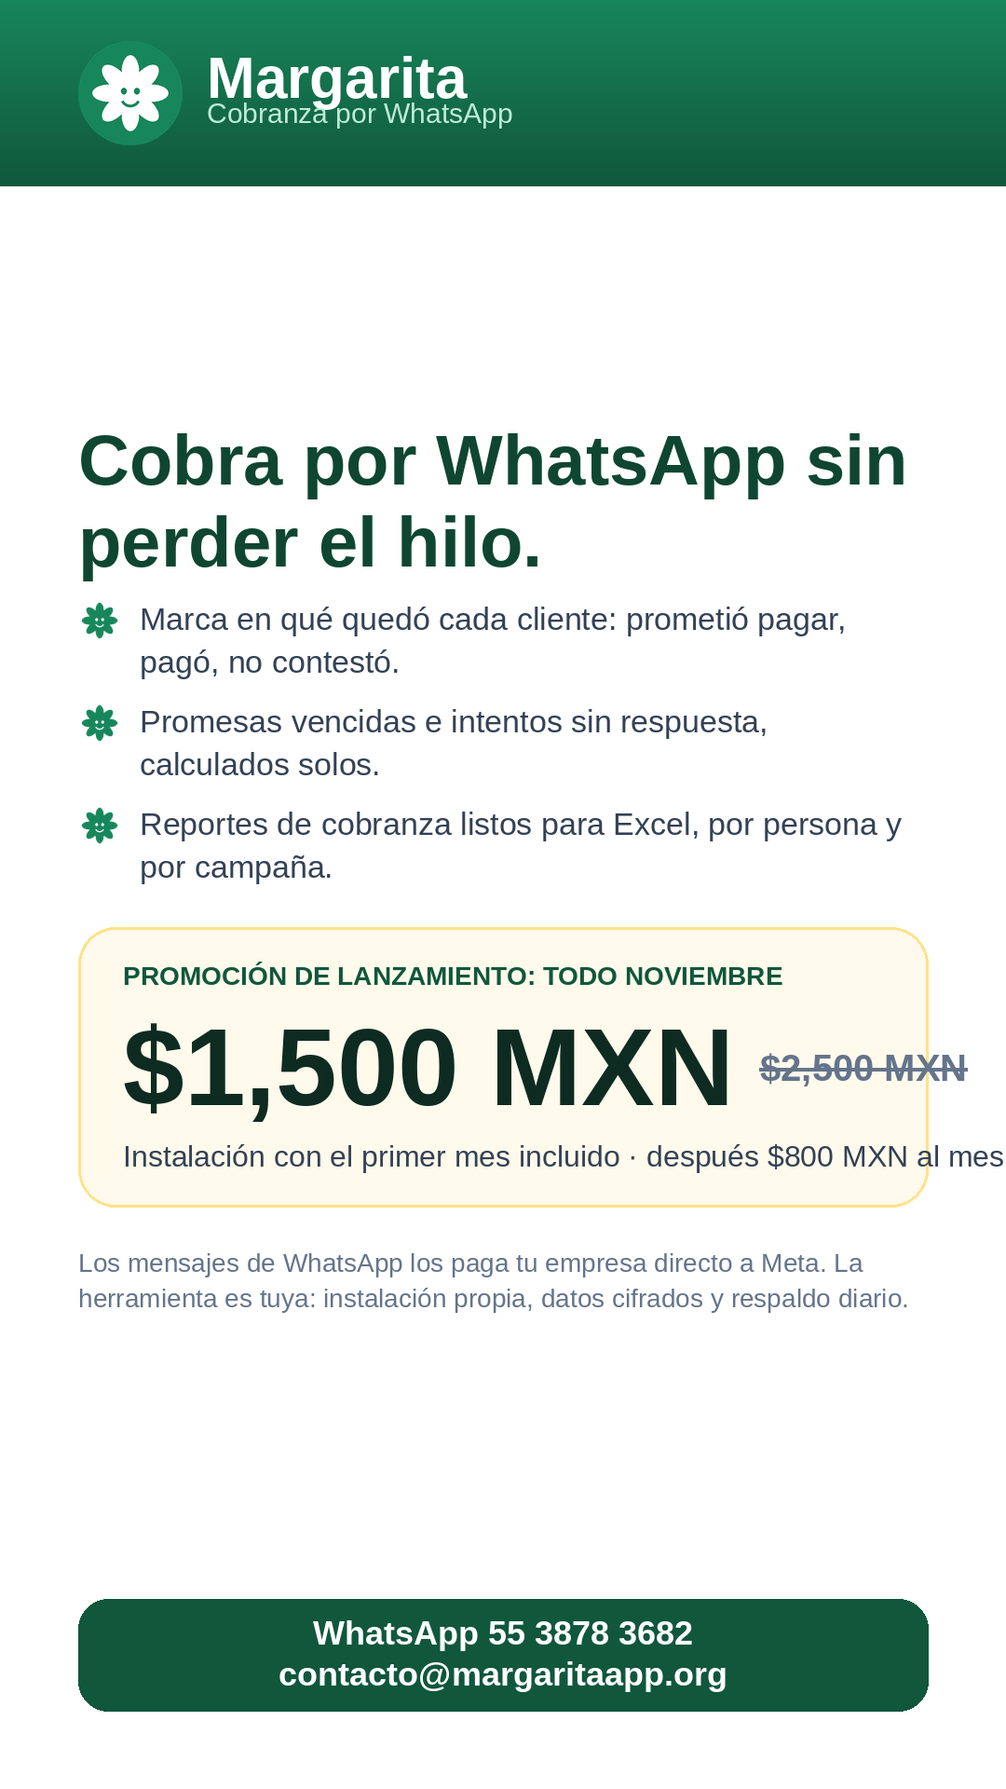
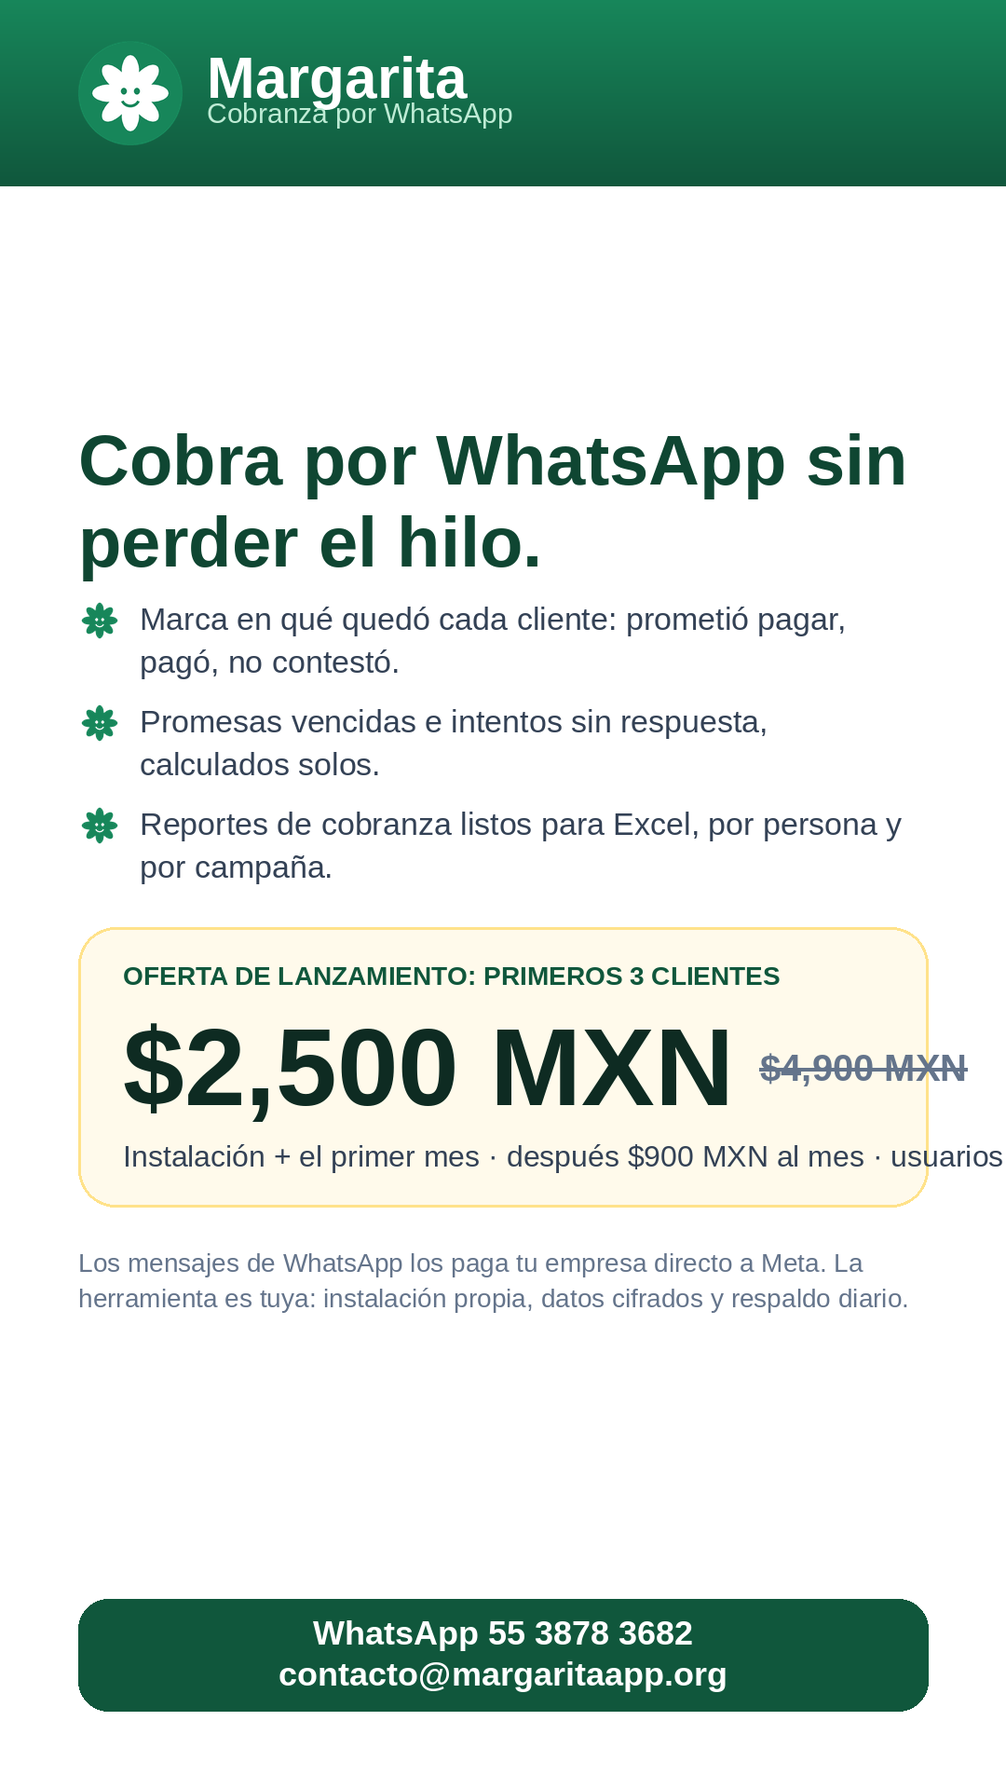
add new fixes

Changed region(s): [[0.1222, 0.5312, 0.7639, 0.625], [0.275, 0.625, 0.9778, 0.6562]]

diff --git a/landing/index.html b/landing/index.html
@@ -93,20 +93,21 @@
 
                         <div>
                             <p class="text-sm font-black text-margarita-900">
-                                Instalación $1,500.00 MXN
+                                Instalación $2,500.00 MXN
                                 
                                     <span class="font-semibold text-slate-500">
-                                        <span class="line-through">$2,500.00 MXN</span>
+                                        <span class="line-through">$4,900.00 MXN</span>
                                     </span>
                                 
                             </p>
 
                             <p class="mt-1 text-xs leading-5 text-slate-600">
-                                Promoción de lanzamiento: todo noviembre. 
-                                La instalación <strong>incluye el primer mes</strong>;
+                                Oferta de lanzamiento: primeros 3 clientes. 
+                                Al contratar se paga la instalación y el primer mes;
                                 después son
-                                <strong>$800.00 MXN</strong> al mes, sin
+                                <strong>$900.00 MXN</strong> al mes, sin
                                 contrato forzoso y con los usuarios que necesites.
+                                Más IVA.
                                 <a href="#precios" class="font-semibold text-margarita-700 underline">
                                     Ver qué incluye
                                 </a>
@@ -327,14 +328,14 @@
                 </p>
 
                 <h2 class="mt-2 text-3xl font-black text-slate-950">
-                    Se paga la instalación. Después, mes con mes.
+                    Una instalación y después, mes con mes.
                 </h2>
 
                 <p class="mt-3 max-w-3xl text-slate-600">
                     Sin contrato forzoso y sin cobro por usuario: se paga la
-                    instalación, que <strong>incluye el primer mes</strong>, y de ahí
-                    en adelante la mensualidad, mes con mes. El consumo de WhatsApp
-                    lo pagas tú directo a Meta.
+                    instalación junto con el primer mes y, de ahí en adelante, la
+                    mensualidad. <strong>Todos los precios son más IVA</strong>, y el
+                    consumo de WhatsApp lo pagas tú directo a Meta.
                 </p>
             </div>
 
@@ -342,36 +343,40 @@
                 <div class="relative rounded-2xl bg-white p-6 shadow-sm ring-2 ring-margarita-600 lg:col-span-2">
                     
                         <span class="absolute -top-3 left-6 rounded-full bg-sol-400 px-3 py-1 text-xs font-black text-margarita-950">
-                            Promoción de lanzamiento: todo noviembre
+                            Oferta de lanzamiento: primeros 3 clientes
                         </span>
                     
 
                     <div class="flex flex-wrap items-end gap-x-4 gap-y-1">
                         <p class="text-4xl font-black text-slate-950">
-                            $1,500.00 MXN
+                            $2,500.00 MXN
                         </p>
 
                         <p class="pb-1 text-sm font-semibold text-slate-500">
                             
-                                <span class="line-through">$2,500.00 MXN</span>
+                                <span class="line-through">$4,900.00 MXN</span>
                             
-                            · una vez
+                            · una vez · más IVA
                         </p>
                     </div>
 
                     <p class="mt-2 text-sm font-semibold text-margarita-800">
-                        Instalación completa + el primer mes · después
-                        $800.00 MXN al mes
+                        Instalación (una vez) + el primer mes ·
+                        $900.00 MXN al mes de ahí en adelante
                     </p>
 
                     <ul class="mt-5 grid gap-2 text-sm text-slate-700 sm:grid-cols-2">
                         <li class="rounded-xl bg-slate-50 px-4 py-3">
-                            Tu propia instalación: proyecto, base de datos, dominio y
+                            Tu instalación completa: proyecto, base de datos, dominio y
                             usuario administrador. Los datos son tuyos.
                         </li>
                         <li class="rounded-xl bg-slate-50 px-4 py-3">
-                            Puesta en marcha contigo: alta del administrador, carga de tu
-                            cartera desde Excel y una sesión de capacitación.
+                            La conexión de tu cuenta de WhatsApp Business, el alta del
+                            primer número y la carga de tus plantillas iniciales.
+                        </li>
+                        <li class="rounded-xl bg-slate-50 px-4 py-3">
+                            <strong>Guía de uso</strong> para tu equipo y una
+                            <strong>sesión de arranque de 2 horas</strong> contigo.
                         </li>
                         <li class="rounded-xl bg-slate-50 px-4 py-3">
                             <strong>Usuarios ilimitados</strong>: no cobramos por agente
@@ -382,9 +387,9 @@
                             verificación en dos pasos disponible.
                         </li>
                         <li class="rounded-xl bg-slate-50 px-4 py-3">
-                            <strong>Primer mes incluido</strong> en la instalación.
-                            Después, mes con mes: si un mes decides no seguir, se
-                            acaba ahí.
+                            <strong>El primer mes va con la instalación</strong>. De ahí
+                            en adelante, mes con mes: si un mes decides no seguir, se
+                            acaba ahí y te llevas tu respaldo.
                         </li>
                         <li class="rounded-xl bg-slate-50 px-4 py-3">
                             Actualizaciones, correcciones y soporte por WhatsApp y
@@ -409,28 +414,32 @@
 
                 <div class="flex flex-col rounded-2xl bg-slate-950 p-6 text-white">
                     <p class="text-xs font-black uppercase tracking-wide text-sol-300">
-                        Opcional
+                        Cada mes
                     </p>
 
-                    <p class="mt-3 text-2xl font-black">
-                        Acompañamiento en Meta
-                        <span class="block text-3xl">+$1,500.00 MXN</span>
+                    <p class="mt-3 text-3xl font-black">
+                        $900.00 MXN
+                        <span class="block text-sm font-semibold text-slate-300">
+                            al mes · más IVA
+                        </span>
                     </p>
 
-                    <p class="mt-3 rounded-xl bg-white/10 px-4 py-3 text-sm font-semibold text-sol-200">
-                        Instalación + Meta: <span class="whitespace-nowrap">$2,500.00 MXN</span>
-                    </p>
+                    
+                        <p class="mt-3 rounded-xl bg-white/10 px-4 py-3 text-sm font-semibold text-sol-200">
+                            Precio de lista: <span class="whitespace-nowrap">$1,490.00 MXN</span> al mes
+                        </p>
+                    
 
-                    <p class="mt-3 text-sm leading-6 text-slate-300">
-                        Si prefieres no pelear con la configuración, lo hacemos
-                        nosotros: alta en Meta Business, cuenta de WhatsApp Business,
-                        número dedicado, token permanente, webhook firmado, primera
-                        plantilla y prueba de punta a punta.
-                    </p>
+                    <ul class="mt-4 space-y-2 text-sm leading-6 text-slate-300">
+                        <li><strong class="text-white">Usuarios ilimitados</strong> y todos los números de tu cuenta.</li>
+                        <li>Actualizaciones, correcciones y funciones nuevas.</li>
+                        <li>Soporte por WhatsApp y correo en horario hábil.</li>
+                        <li>Respaldos diarios, datos cifrados y monitoreo.</li>
+                    </ul>
 
                     <p class="mt-4 text-xs leading-5 text-slate-400">
-                        Pago único. Aunque no lo contrates, te dejamos la guía
-                        completa para hacerlo por tu cuenta.
+                        Sin plazos forzosos. Si un mes no continúas, te llevas tu
+                        respaldo completo y se borra todo a petición.
                     </p>
 
                     <a href="https://wa.me/525538783682" class="mt-auto inline-flex w-fit rounded-xl bg-sol-400 px-5 py-3 text-sm font-black text-margarita-950 hover:bg-sol-300">
@@ -467,13 +476,15 @@
 
                 <div class="rounded-2xl bg-slate-50 px-5 py-4 ring-1 ring-slate-200">
                     <p class="text-sm font-black text-slate-950">
-                        Mes con mes, tú decides
+                        Tu cuenta de Meta va de tu lado
                     </p>
 
                     <p class="mt-1 text-sm leading-6 text-slate-600">
-                        Son <strong>$800.00 MXN</strong> al mes, sin
-                        plazos forzosos. Si un mes dejas de pagar, se acabó: te
-                        llevas tu respaldo completo y se borra todo a petición.
+                        La instalación supone que ya tienes tu cuenta de WhatsApp
+                        Business configurada (verificación del negocio, número y método
+                        de pago). Si prefieres que la configuremos nosotros, se
+                        <strong>cotiza aparte</strong>; la guía para hacerlo tú está
+                        publicada.
                     </p>
                 </div>
             </div>

diff --git a/src/config/app.config.ts b/src/config/app.config.ts
@@ -206,28 +206,34 @@ export const appConfig = {
         process.env.SUPPORT_WHATSAPP_DISPLAY?.trim() || "55 3878 3682",
     setupServicePrice:
         process.env.SETUP_SERVICE_PRICE?.trim() ||
-        "$1,500.00 MXN",
+        "se cotiza aparte",
 
     /**
      * La oferta comercial, tal como aparece en la página pública. Se escribe
      * ya formateada ("$1,500.00 MXN") porque es un texto que lee el cliente:
      * el formato es decisión comercial, no del navegador.
      *
-     * El modelo es **mes con mes**: la instalación (que incluye el primer mes)
-     * y, del segundo mes en adelante, la mensualidad. En noviembre la
-     * instalación va en promoción.
+     * El modelo es **mes con mes**: la instalación (que se paga junto con el
+     * primer mes) y, de ahí en adelante, la mensualidad. Hay una oferta de
+     * lanzamiento para los primeros clientes, con precio de lista y de oferta,
+     * y una fecha de vigencia: al pasar esa fecha la página deja de anunciarla
+     * sola, sin tocar código.
+     *
+     * Los precios van **más IVA**, como el resto de la propuesta.
      */
-    installPrice: process.env.INSTALL_PRICE?.trim() || "$2,500.00 MXN",
+    installPrice: process.env.INSTALL_PRICE?.trim() || "$4,900.00 MXN",
     installPricePromo:
-        process.env.INSTALL_PRICE_PROMO?.trim() || "$1,500.00 MXN",
+        process.env.INSTALL_PRICE_PROMO?.trim() || "$2,500.00 MXN",
     installPromoLabel:
         process.env.INSTALL_PROMO_LABEL?.trim() ||
-        "Promoción de lanzamiento: todo noviembre",
+        "Oferta de lanzamiento: primeros 3 clientes",
+    /** Hasta cuándo vale la oferta. Pasada la fecha, se deja de anunciar. */
+    installPromoUntil:
+        process.env.INSTALL_PROMO_UNTIL?.trim() || "2026-12-31",
     installMonthlyPrice:
-        process.env.INSTALL_MONTHLY_PRICE?.trim() || "$800.00 MXN",
-    /** Lo que cuestan la instalación y la conexión con Meta si van juntas. */
-    setupBundlePrice:
-        process.env.SETUP_BUNDLE_PRICE?.trim() || "$2,500.00 MXN",
+        process.env.INSTALL_MONTHLY_PRICE?.trim() || "$900.00 MXN",
+    installMonthlyListPrice:
+        process.env.INSTALL_MONTHLY_LIST_PRICE?.trim() || "$1,490.00 MXN",
 
 
     logRetentionDays: Number(process.env.LOG_RETENTION_DAYS) || 90,

diff --git a/landing/como-empezar.html b/landing/como-empezar.html
@@ -76,7 +76,7 @@
                         Nosotros configuramos la app de Meta, la cuenta de WhatsApp
                         Business, el número dedicado, el token permanente, el webhook
                         firmado, las plantillas y una prueba de punta a punta.
-                        <strong class="text-white">Precio: $1,500.00 MXN.</strong>
+                        <strong class="text-white">Precio: se cotiza aparte.</strong>
                     </p>
 
                     <a href="https://wa.me/525538783682" class="mt-4 inline-flex rounded-xl bg-margarita-500 px-6 py-3 text-sm font-black text-white hover:bg-margarita-400">
@@ -413,7 +413,7 @@
                             Incluye el alta en Meta, el número dedicado, el token
                             permanente, el webhook firmado, la primera plantilla y la
                             prueba de punta a punta.
-                            <strong class="text-white">Precio: $1,500.00 MXN.</strong>
+                            <strong class="text-white">Precio: se cotiza aparte.</strong>
                         </p>
                     </div>
 

diff --git a/scripts/build-landing.ts b/scripts/build-landing.ts
@@ -63,11 +63,12 @@ function locals(title: string) {
         supportEmail: appConfig.supportEmail,
         supportWhatsappDisplay: appConfig.supportWhatsappDisplay,
         setupServicePrice: appConfig.setupServicePrice,
-        setupBundlePrice: appConfig.setupBundlePrice,
         installPrice: appConfig.installPrice,
         installPricePromo: appConfig.installPricePromo,
         installPromoLabel: appConfig.installPromoLabel,
-        installMonthlyPrice: appConfig.installMonthlyPrice
+        installPromoUntil: appConfig.installPromoUntil,
+        installMonthlyPrice: appConfig.installMonthlyPrice,
+        installMonthlyListPrice: appConfig.installMonthlyListPrice
     };
 }
 

diff --git a/src/controllers/home.controller.ts b/src/controllers/home.controller.ts
@@ -16,11 +16,12 @@ function supportContext() {
         supportEmail: appConfig.supportEmail,
         supportWhatsappDisplay: appConfig.supportWhatsappDisplay,
         setupServicePrice: appConfig.setupServicePrice,
-        setupBundlePrice: appConfig.setupBundlePrice,
         installPrice: appConfig.installPrice,
         installPricePromo: appConfig.installPricePromo,
         installPromoLabel: appConfig.installPromoLabel,
+        installPromoUntil: appConfig.installPromoUntil,
         installMonthlyPrice: appConfig.installMonthlyPrice,
+        installMonthlyListPrice: appConfig.installMonthlyListPrice,
         appName: appConfig.name
     };
 }

diff --git a/src/controllers/admin-system.controller.ts b/src/controllers/admin-system.controller.ts
@@ -25,7 +25,7 @@ export class AdminSystemController {
                 installList: appConfig.installPrice,
                 monthly: appConfig.installMonthlyPrice,
                 meta: appConfig.setupServicePrice,
-                bundle: appConfig.setupBundlePrice,
+                monthlyList: appConfig.installMonthlyListPrice,
                 promoLabel: appConfig.installPromoLabel,
                 email: appConfig.supportEmail,
                 whatsapp: appConfig.supportWhatsappDisplay

diff --git a/scripts/generate-promo.py b/scripts/generate-promo.py
@@ -12,7 +12,7 @@ Produce (en `marketing/`):
 El precio sale de los mismos valores por omisión que la página pública
 (instalación con el primer mes incluido y mensualidad mes con mes), así que la
 imagen y la página no se pueden contradecir. Cuando la promoción termine, se
-vuelve a correr con `--price="$2,500 MXN"`.
+vuelve a correr con `--price="$4,900 MXN"`.
 
 El contacto se toma de los argumentos o de `SUPPORT_WHATSAPP` y
 `SUPPORT_EMAIL`; el correo por omisión es el del producto
@@ -298,11 +298,11 @@ def render(width, height, content):
 
 def main():
     parser = argparse.ArgumentParser(description="Imagen de promoción de Margarita")
-    parser.add_argument("--price", default="$1,500 MXN")
-    parser.add_argument("--price-before", default="$2,500 MXN")
-    parser.add_argument("--monthly", default="$800 MXN")
+    parser.add_argument("--price", default="$2,500 MXN")
+    parser.add_argument("--price-before", default="$4,900 MXN")
+    parser.add_argument("--monthly", default="$900 MXN")
     parser.add_argument(
-        "--promo-label", default="Promoción de lanzamiento: todo noviembre"
+        "--promo-label", default="Oferta de lanzamiento: primeros 3 clientes"
     )
     parser.add_argument(
         "--whatsapp",
@@ -334,8 +334,8 @@ def main():
         "price": args.price,
         "price_before": args.price_before,
         "detail": (
-            f"Instalación con el primer mes incluido · después {args.monthly} "
-            "al mes · usuarios ilimitados"
+            f"Instalación + el primer mes · después {args.monthly} al mes · "
+            "usuarios ilimitados · más IVA"
         ),
         "meta_note": (
             "Los mensajes de WhatsApp los paga tu empresa directo a Meta. "

diff --git a/README.md b/README.md
@@ -278,12 +278,13 @@ Copia `.env.example` a `.env`. Ninguna de estas variables debe subirse al reposi
 | `SESSION_MAX_ACTIVE` | No | Dispositivos con sesión abierta por usuario. Default `3` |
 | `SUPPORT_WHATSAPP` | Comercial | Número de contacto (dígitos con lada país) que aparece en la página pública |
 | `SUPPORT_EMAIL` | Comercial | Correo de contacto alterno |
-| `SETUP_SERVICE_PRICE` | Comercial | Precio del servicio de conexión con Meta que se muestra en la página pública |
-| `INSTALL_PRICE` | Comercial | Precio de lista de la instalación, con el primer mes incluido (`$2,500.00 MXN`) |
-| `INSTALL_PRICE_PROMO` | Comercial | Precio de la promoción de lanzamiento (`$1,500.00 MXN`) |
-| `INSTALL_PROMO_LABEL` | Comercial | Texto de la promoción (`Promoción de lanzamiento: todo noviembre`) |
-| `INSTALL_MONTHLY_PRICE` | Comercial | Mensualidad, del segundo mes en adelante (`$800.00 MXN`) |
-| `SETUP_BUNDLE_PRICE` | Comercial | Instalación + conexión con Meta si se contratan juntas (`$2,500.00 MXN`) |
+| `SETUP_SERVICE_PRICE` | Comercial | Precio del acompañamiento con Meta (`se cotiza aparte` por omisión) |
+| `INSTALL_PRICE` | Comercial | Precio de lista de la instalación (`$4,900.00 MXN`) |
+| `INSTALL_PRICE_PROMO` | Comercial | Precio de la oferta de lanzamiento (`$2,500.00 MXN`) |
+| `INSTALL_PROMO_LABEL` | Comercial | Texto de la oferta (`Oferta de lanzamiento: primeros 3 clientes`) |
+| `INSTALL_MONTHLY_PRICE` | Comercial | Mensualidad (`$900.00 MXN`) |
+| `INSTALL_MONTHLY_LIST_PRICE` | Comercial | Mensualidad a precio de lista (`$1,490.00 MXN`) |
+| `INSTALL_PROMO_UNTIL` | Comercial | Hasta cuándo vale la oferta (`2026-12-31`); después, la página deja de anunciarla sola |
 | `SUPPORT_WHATSAPP_DISPLAY` | Comercial | El número como se muestra en la página (`55 3878 3682`) |
 | `BACKUP_ENABLED` | No | Respaldo automático de la base. Default `true` |
 | `BACKUP_INTERVAL_HOURS` | No | Cada cuánto se guarda una copia completa. Default `24` |

diff --git a/docs/deploy-railway.md b/docs/deploy-railway.md
@@ -96,12 +96,13 @@ Genera los cuatro de una vez y explica para qué sirve cada uno. Copia esos valo
 | `SESSION_MAX_ACTIVE` | `3` | Dispositivos con sesión abierta por usuario |
 | `SUPPORT_WHATSAPP` | — | Número comercial que aparece en la página pública (`https://wa.me/…`) |
 | `SUPPORT_EMAIL` | — | Correo comercial de contacto |
-| `SETUP_SERVICE_PRICE` | `$1,500.00 MXN` | Precio del servicio de conexión con Meta que se muestra en la página pública |
-| `INSTALL_PRICE` | `$2,500.00 MXN` | Precio de lista de la instalación (incluye el primer mes) |
-| `INSTALL_PRICE_PROMO` | `$1,500.00 MXN` | Precio de la promoción de lanzamiento (incluye el primer mes) |
-| `INSTALL_PROMO_LABEL` | `Promoción de lanzamiento: todo noviembre` | Texto que acompaña la promoción |
-| `INSTALL_MONTHLY_PRICE` | `$800.00 MXN` | Mensualidad, del segundo mes en adelante |
-| `SETUP_BUNDLE_PRICE` | `$2,500.00 MXN` | Instalación + conexión con Meta, si se contratan juntas |
+| `SETUP_SERVICE_PRICE` | `se cotiza aparte` | Precio del acompañamiento con Meta en la página pública |
+| `INSTALL_PRICE` | `$4,900.00 MXN` | Precio de lista de la instalación |
+| `INSTALL_PRICE_PROMO` | `$2,500.00 MXN` | Precio de la oferta de lanzamiento |
+| `INSTALL_PROMO_LABEL` | `Oferta de lanzamiento: primeros 3 clientes` | Texto que acompaña la oferta |
+| `INSTALL_MONTHLY_PRICE` | `$900.00 MXN` | Mensualidad |
+| `INSTALL_MONTHLY_LIST_PRICE` | `$1,490.00 MXN` | Mensualidad a precio de lista |
+| `INSTALL_PROMO_UNTIL` | `2026-12-31` | Fecha en que la página deja de anunciar la oferta |
 | `SUPPORT_WHATSAPP_DISPLAY` | `55 3878 3682` | El WhatsApp como se muestra en la página |
 | `BACKUP_ENABLED` | `true` | Respaldo automático de la base encendido o apagado |
 | `BACKUP_INTERVAL_HOURS` | `24` | Cada cuánto se guarda una copia completa |

diff --git a/docs/plantilla-railway.md b/docs/plantilla-railway.md
@@ -43,11 +43,12 @@ No hay que configurar nada en el panel de Railway para el build ni el arranque: 
 | `TIMEZONE` | `America/Mexico_City` | Para fechas, topes diarios y reportes. |
 | `SUPPORT_WHATSAPP` | tu número con lada | Aparece en la página pública del cliente. |
 | `SUPPORT_EMAIL` | tu correo | Contacto comercial. |
-| `SETUP_SERVICE_PRICE` | `$1,500.00 MXN` | Lo que cobras por la conexión con Meta. |
-| `INSTALL_PRICE` / `INSTALL_PRICE_PROMO` | `$2,500.00 MXN` / `$1,500.00 MXN` | Precio de lista y de promoción de la instalación (incluye el primer mes). |
-| `INSTALL_PROMO_LABEL` | `Promoción de lanzamiento: todo noviembre` | Texto de la promoción, para poder apagarla sin tocar código. |
-| `INSTALL_MONTHLY_PRICE` | `$800.00 MXN` | La mensualidad, del segundo mes en adelante. |
-| `SETUP_BUNDLE_PRICE` | `$2,500.00 MXN` | Instalación + conexión con Meta, si van juntas. |
+| `SETUP_SERVICE_PRICE` | `se cotiza aparte` | Lo que cobras por la conexión con Meta. |
+| `INSTALL_PRICE` / `INSTALL_PRICE_PROMO` | `$4,900.00 MXN` / `$2,500.00 MXN` | Precio de lista y de la oferta de instalación. |
+| `INSTALL_PROMO_LABEL` | `Oferta de lanzamiento: primeros 3 clientes` | Texto de la oferta. |
+| `INSTALL_PROMO_UNTIL` | `2026-12-31` | Se apaga sola al pasar esa fecha. |
+| `INSTALL_MONTHLY_PRICE` | `$900.00 MXN` | La mensualidad. |
+| `INSTALL_MONTHLY_LIST_PRICE` | `$1,490.00 MXN` | La mensualidad a precio de lista. |
 
    Marca como **requeridas** solo `DATABASE_URL`, `JWT_SECRET` y `ENCRYPTION_KEY`; el resto ya trae valor por defecto en el código.
 
